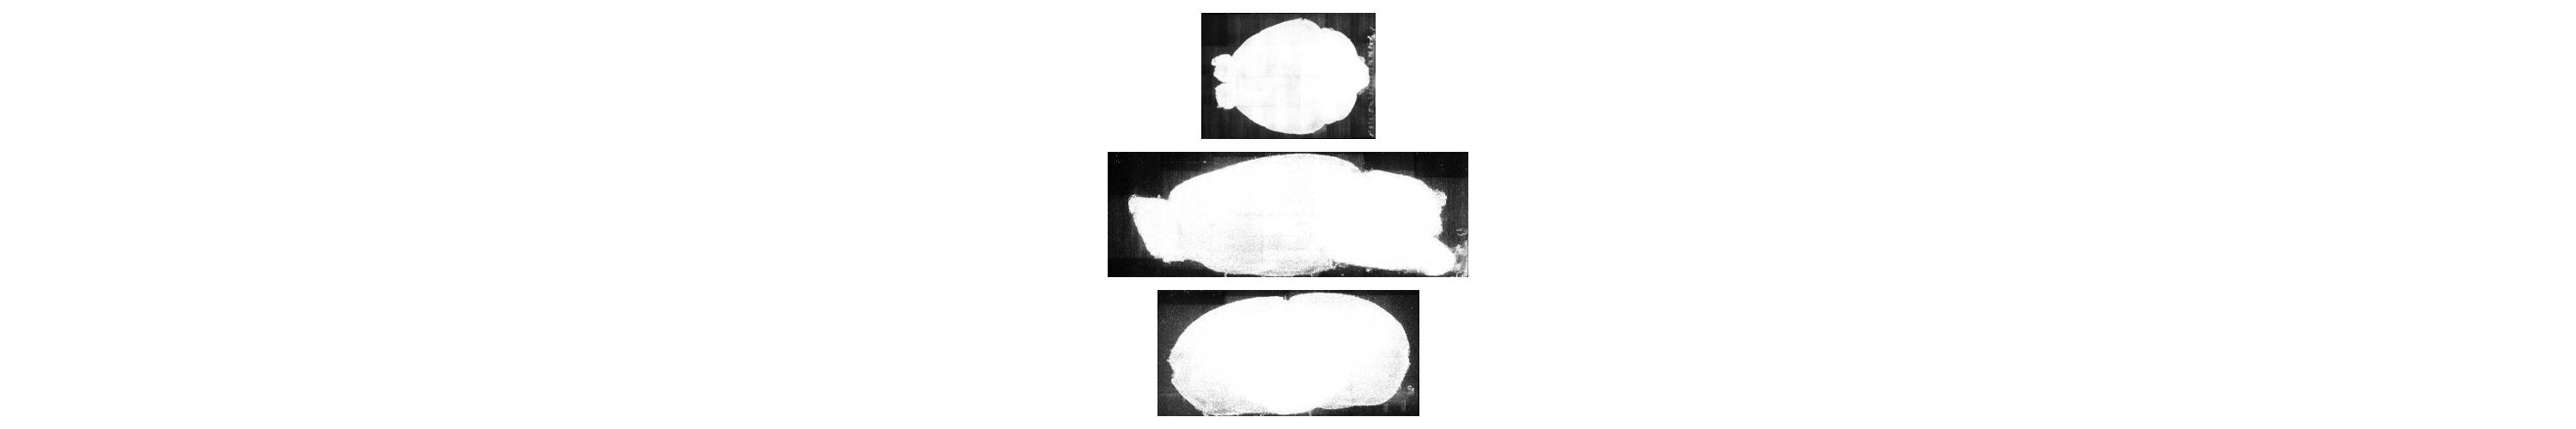
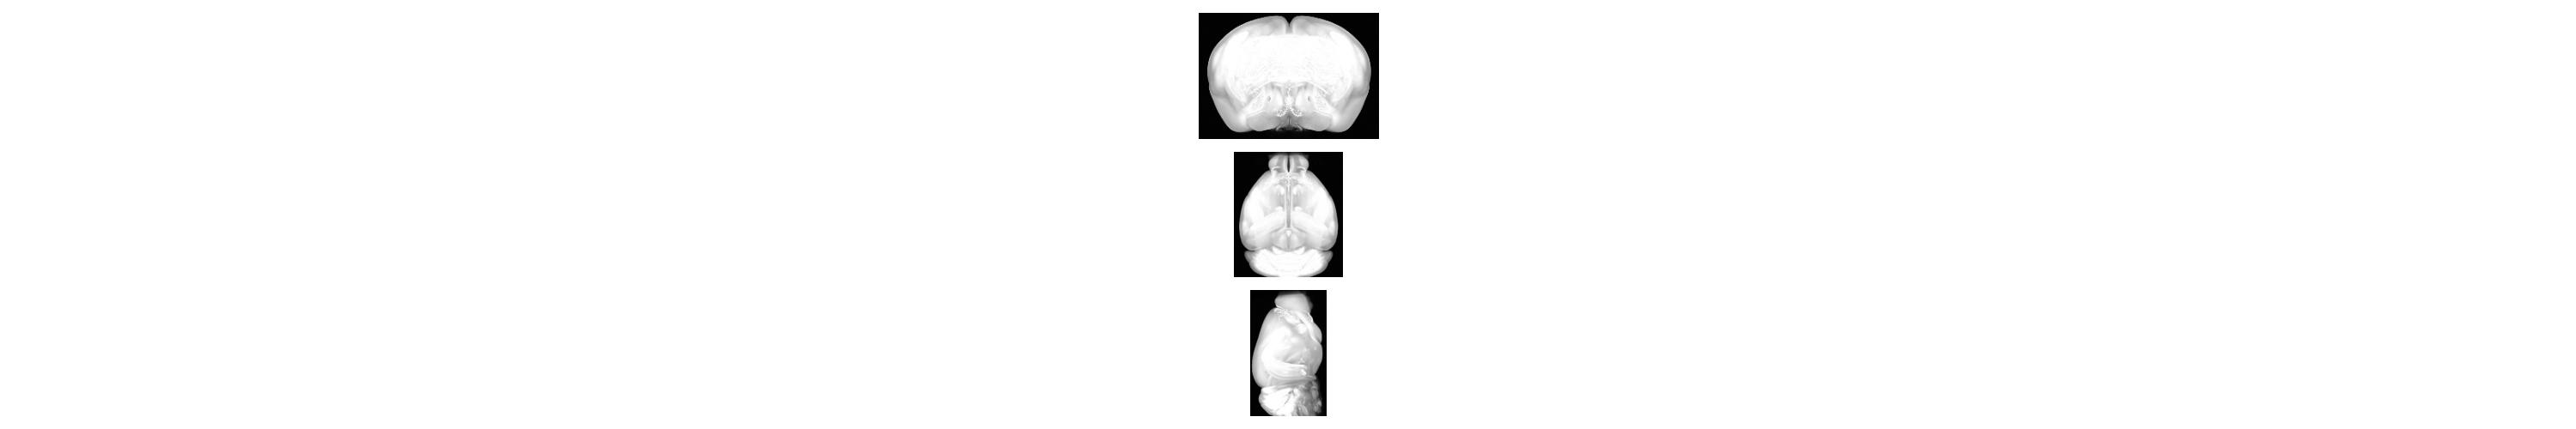
updates to registration

Changed region(s): [[0.403, 0.03, 0.589, 0.99]]

diff --git a/BrainBeam/cust_registration/registration.py b/BrainBeam/cust_registration/registration.py
@@ -23,8 +23,9 @@ from scipy.ndimage import zoom
 import tqdm
 import SimpleITK as sitk
 from BrainBeam.cust_registration.padding import zero_pad_arrays
-from BrainBeam.cust_registration.bayessearch import find_affine_matrix, set_affine_rotation
+from BrainBeam.cust_registration.bayessearch import find_affine_matrix, set_affine_rotation, find_best_axes_sampling
 from BrainBeam.cust_registration.graphics import volume_graphics
+from BrainBeam.cust_registration.preprocess import replace_signal
 from datetime import datetime
 from functools import partial
 import argparse
@@ -315,6 +316,8 @@ class alignment:
         self.TargetImageObject = TargetImageObject
         self.drop_path = drop_path
         self.best_params_oh = None # Default assumption
+        self.best_params_mask_oh = None
+        self.best_params_mask_stretch_oh = None
         self.moving_array_original = self.MovingImageObject.downsampled_volume.astype(np.float64)
         self.target_array = self.TargetImageObject.template.astype(np.float64)
         self.annotation_array = self.TargetImageObject.annotation.astype(np.float64)
@@ -435,19 +438,69 @@ class alignment:
         return now.strftime("%Y_%m_%d_%H_%M_%S")
     
     def __call__(self):
-        # Zero pad both arrays for consistent dimensions
-        self.moving_array_original, self.target_array = zero_pad_arrays(array1=self.moving_array_original, 
-                                                                        array2=self.target_array)
+        # Preprocess image volumes ... eliminate high signal
+        self.moving_array_original = replace_signal(volume=self.moving_array_original) 
+        self.target_array = replace_signal(volume = self.target_array, normalize=True)
 
-        _, self.annotation_array_original = zero_pad_arrays(array1=self.moving_array_original, 
-                                                                        array2=self.annotation_array)
-        
+        # Zero pad both arrays for consistent dimensions
+        self.moving_array_original, self.target_array = zero_pad_arrays(array1=self.moving_array_original, array2=self.target_array)
+
+        _, self.annotation_array_original = zero_pad_arrays(array1=self.moving_array_original, array2=self.annotation_array)
     
-        # Perform a rigid transformation
+        # Binary mask alignment and stretching/squeezing
         self.moving_mask, self.target_mask = self.graphobjoh.plot_surface(volume1 = self.moving_array_original, 
-                                     volume2 = self.target_array,
-                                     pull_binary_mask = True)
-             
+                                     volume2 = self.target_array, pull_binary_mask = True) # Get binary masks 
+        
+        best_params_mask_file = os.path.join(self.drop_path, f"best_params_mask_bayesopt.pkl")
+        best_params_mask_stretch_file = os.path.join(self.drop_path, f"best_params_mask_stretch_bayesopt.pkl")
+        if os.path.exists(best_params_mask_file):
+            """ If real, load in best rigid parameters """
+            print(f"Bayes Opt file previously calculated for mask, loading file ...")
+            with open(best_params_mask_file, "rb") as f:
+                self.best_params_mask_oh = pickle.load(f)
+
+        else:
+            """ If no file exists, perform rigid transform via bayes search """
+            print('Performing Bayesian-based rigid transformation ... ') 
+            self.fixed_mask, self.moving_mask, self.best_params_mask_oh = find_affine_matrix(fixed_image=self.target_mask,
+                                                                                             moving_image=self.moving_mask,
+                                                                                             best_params=self.best_params_mask_oh, 
+                                                                                             drop_dir = self.drop_path,
+                                                                                             ntrials=5000)
+            
+            self.fixed_mask,self.moving_mask,self.best_params_mask_stretch_oh = find_best_axes_sampling(fixed_image=self.fixed_mask,
+                                                                                                        moving_image=self.moving_mask,
+                                                                                                        best_params=self.best_params_mask_stretch_oh, 
+                                                                                                        drop_dir = self.drop_path, 
+                                                                                                        ntrials=5000)
+
+            with open(best_params_mask_file, "wb") as f:
+                pickle.dump(self.best_params_mask_oh, f)
+                print('Saved BayesOpt best parameters rigid mask ...')
+
+            with open(best_params_mask_stretch_file, "wb") as f:
+                pickle.dump(self.best_params_mask_stretch_oh, f)
+                print('Saved BayesOpt best parameters stretch mask ...')
+
+        # Apply alignment to data 
+        assert self.best_params_mask_oh is not None
+        assert self.best_params_mask_stretch_oh is not None
+        
+        best_affine_transform = sitk.AffineTransform(3)
+        best_affine_transform = set_affine_rotation(best_affine_transform, self.best_params_mask_oh['theta_x'], self.best_params_mask_oh['theta_y'], self.best_params_mask_oh['theta_z'])
+        best_affine_transform.SetTranslation([self.best_params_mask_oh['translation_x'], self.best_params_mask_oh['translation_y'], self.best_params_mask_oh['translation_z']])
+        best_affine_transform.Scale(self.best_params_mask_oh['scale'])
+        best_resampler = sitk.ResampleImageFilter()
+        best_resampler.SetSize(sitk.GetImageFromArray(self.target_array).GetSize())
+        best_resampler.SetOutputSpacing(sitk.GetImageFromArray(self.target_array).GetSpacing())
+        best_resampler.SetTransform(best_affine_transform)
+        best_resampler.SetInterpolator(sitk.sitkLinear)
+        best_aligned_image = best_resampler.Execute(sitk.GetImageFromArray(self.moving_array_original))
+        self.moving_image = sitk.GetArrayFromImage(best_aligned_image)
+        self.fixed_image = self.target_array
+        self.moving_image = zoom(self.moving_image, (self.best_params_mask_stretch_oh['scale_x'], self.best_params_mask_stretch_oh['scale_y'], self.best_params_mask_stretch_oh['scale_z'])) 
+
+        # Perform Rigid Alignment on original data 
         best_params_file = os.path.join(self.drop_path, f"best_params_bayesopt.pkl")
         if os.path.exists(best_params_file):
             """ If real, load in best rigid parameters """
@@ -472,25 +525,18 @@ class alignment:
         else:
             """ If no file exists, perform rigid transform via bayes search """
             print('Performing Bayesian-based rigid transformation ... ') 
-            self.fixed_image, self.moving_image, self.best_params_oh = find_affine_matrix(fixed_image=self.target_mask,
-                                                                    moving_image=self.moving_mask,
-                                                                    best_params=self.best_params_oh, drop_dir = self.drop_path)
+            self.fixed_image, self.moving_image, self.best_params_oh = find_affine_matrix(fixed_image=self.fixed_image,
+                                                                    moving_image=self.moving_image,
+                                                                    best_params=self.best_params_oh, 
+                                                                    drop_dir = self.drop_path)
             
             with open(best_params_file, "wb") as f:
                 pickle.dump(self.best_params_oh, f)
                 print('Saved BayesOpt best parameters ...')
 
-        # Graph fixed and moving volumes
-        self.graphobjoh.spin_volume(volume1 = self.moving_image, volume2 = self.target_array, 
-                                   label='postrigid', output=os.path.join(self.drop_path, f'Post_Rigid_3d_{self.time_to_str()}.gif'))
-          
         # Perform non-rigid alignment
         print('Performing Non-Rigid Multiresolution Alignment ... ') 
         self.nonrigid_moving_image = self.multiresolution_align()
-
-        # Graph non-rigid alignment
-        self.graphobjoh.spin_volume(volume1 = self.nonrigid_moving_image, volume2 = self.target_array, 
-                                   label='nonrigid', output=os.path.join(self.drop_path, f'Non_Rigid_Alignment_{self.time_to_str()}.gif'))
 
 def cli_parser():
     """ Takes command line inputs and parses them for downstream """

diff --git a/BrainBeam/cust_registration/BayesSearch.py b/BrainBeam/cust_registration/BayesSearch.py
@@ -38,7 +38,6 @@ from optuna.samplers import CmaEsSampler
 from scipy.ndimage import zoom
 from skimage.filters import threshold_otsu, threshold_li, threshold_yen
 
-
 def print_results_every_n_trials(study, trial, n=10):
     """
     Callback function to print study results every n trials.
@@ -46,8 +45,7 @@ def print_results_every_n_trials(study, trial, n=10):
     if trial.number % n == 0:
         print(f"Trial {trial.number}: Best Value = {study.best_value:.5f}, Best Params = {study.best_params}")
 
-
-def compute_mattes_mutual_information(fixed_image, moving_image):
+def MMI(fixed_image, moving_image):
     registration_method = sitk.ImageRegistrationMethod()
     registration_method.SetMetricAsMattesMutualInformation(numberOfHistogramBins=50)
     identity_transform = sitk.Transform(3, sitk.sitkIdentity)
@@ -116,7 +114,7 @@ def find_affine_matrix(fixed_image,moving_image, drop_dir,ntrials=10000,best_par
             resampler.SetInterpolator(sitk.sitkLinear)  # Use linear interpolation
             transformed_image = resampler.Execute(moving_image)
 
-            metric = compute_mattes_mutual_information(fixed_image, transformed_image)
+            metric = MMI(fixed_image, transformed_image)
             print(f'MMI value is {metric}')
             return metric  # Return the metric value (Optuna tries to minimize this)
 
@@ -199,4 +197,67 @@ def find_affine_matrix(fixed_image,moving_image, drop_dir,ntrials=10000,best_par
     aligned_array = sitk.GetArrayFromImage(best_aligned_image)
     fixed_image = sitk.GetArrayFromImage(fixed_image)
     return fixed_image, aligned_array, best_params
+
+
+def find_best_axes_sampling(fixed_image,moving_image,drop_dir,ntrials=5000,best_params=None):
+    if best_params is None:
+        def objective(trial, fixed_image, moving_image):
+            """ In this study, we are trying to determine which angles """
+            scale_x = trial.suggest_uniform('scale_x', 0.5, 2.0)
+            scale_y = trial.suggest_uniform('scale_y', 0.5, 2.0)
+            scale_z = trial.suggest_uniform('scale_z', 0.5, 2.0)
+
+            # Rescale with zoom
+            rescaled_moving_image = zoom(moving_image, (scale_x, scale_y, scale_z))
+            
+            # Convert numpy to sitk
+            fixed_image = sitk.GetImageFromArray(fixed_image)
+            moving_image = sitk.GetImageFromArray(moving_image)
+
+            metric = MMI(fixed_image, rescaled_moving_image)
+            print(f'MMI value is {metric}')
+            return metric  # Return the metric value (Optuna tries to minimize this)
+
+        def current_param_graph(study, trial, moving_image, fixed_image, droppath, n=1000):
+            if trial.number % n == 0:
+                if trial.number ==0:
+                    return 
+                
+                best_trial = study.best_trial
+                best_params = best_trial.params
+                best_aligned_image = zoom(moving_image, (best_params['scale_x'], best_params['scale_y'], best_params['scale_z']))
+               
+                # Plot the results
+                fig, axs = plt.subplots(3, 2, figsize=(30, 5))
+                for i in range(3):
+                    aligned_av = best_aligned_image.max(axis=i)
+                    fixed_av = fixed_image.max(axis=i)
+
+                    ax = axs[i, 0]
+                    ax.imshow(aligned_av)
+                    ax.axis('off') 
+
+                    ax = axs[i, 1]
+                    ax.imshow(fixed_av)
+                    ax.axis('off')  
+
+                plt.savefig(os.path.join(droppath,f'slices_trial_stretch_{trial.number}.jpg'))
+
+        # Create an Optuna study to optimize the objective function
+        sampler = CmaEsSampler()
+        study = optuna.create_study(sampler=sampler, direction="minimize", pruner=MedianPruner())  # We want to minimize the metric
+        study.optimize(lambda trial: objective(trial, fixed_image, moving_image), n_trials=ntrials, n_jobs=-1,  show_progress_bar=True, callbacks=[lambda s, t: current_param_graph(s, t, moving_image, fixed_image, drop_dir)])  # Run optimization for 100 trials
+
+        # Get the best parameters from the optimization
+        best_trial = study.best_trial
+        print(f"Best trial: {best_trial.number}")
+        print(f"Best value: {best_trial.value}")
+        print(f"Best parameters: {best_trial.params}")
+
+        # Apply the best affine transform to the moving image
+        best_params = best_trial.params
+  
+    aligned_array = zoom(moving_image, (best_params['scale_x'], best_params['scale_y'], best_params['scale_z']))  
+    return fixed_image, aligned_array, best_params
+
 

diff --git a/BrainBeam/cust_registration/graphics.py b/BrainBeam/cust_registration/graphics.py
@@ -17,13 +17,44 @@ from scipy.ndimage import binary_fill_holes
 import trimesh
 import ipdb
 
-def slice_views(array,output_filename):
+def adjust_image(image, contrast=1.0, brightness=0):
+    image = image * contrast
+    image = image + brightness
+    image = np.clip(image, 0, 255)
+    return image
+
+def slice_views(array,output_filename, contrast = None, brightness = None,image_type='max'):
+    # contrast and brightness must both be numbers
+    if contrast is not None and brightness is not None:
+        assert isinstance(contrast, (int, float)), "variable1 must be an int or float"
+        assert isinstance(brightness, (int, float)), "variable2 must be an int or float"
+        adjust = True
+    else:
+        adjust = False
+
     fig, axs = plt.subplots(3, 1, figsize=(30, 5))
     for i in range(3):
-        maxes = array.max(axis=i)
+        if image_type == 'max':
+            maxes = array.max(axis=i)
+        elif image_type =='mean':
+            maxes = array.mean(axis=i)
+        elif image_type =='median':
+            maxes = np.median(array,axis=i)
+        elif image_type == 'std':
+            maxes = np.std(array,axis=i)
+        else:
+            raise("image type must be either 'max', 'mean', 'median' or 'std'")
+
+        # Adjust brightness and contrast
+        if adjust:
+            maxes = adjust_image(maxes, contrast = contrast, brightness = brightness)
+
+        print(maxes.max())
+        print(maxes.min())
         ax = axs[i]
         ax.imshow(maxes,aspect='equal', cmap='gray', vmin = np.min(maxes), vmax = np.max(maxes))
         ax.axis('off') 
+
     plt.tight_layout()
     plt.savefig(output_filename)
 

diff --git a/BrainBeam/cust_registration/preprocess.py b/BrainBeam/cust_registration/preprocess.py
@@ -11,19 +11,26 @@ import numpy as np
 from scipy.ndimage import gaussian_filter
 from BrainBeam.cust_registration.graphics import slice_views
 from BrainBeam.cust_registration.padding import zero_pad_arrays
+from allensdk.core.reference_space_cache import ReferenceSpaceCache
+from pathlib import Path
 import ipdb
 
-def replace_signal(volume,threshold=95, cube_size=9):
+def replace_signal(volume,threshold=99, cube_size=9,normalize=False):
     """
     
     """
+    # normalize data if set
+    if normalize:
+        volume = ((volume-volume.min())/(volume.max()-volume.min()))*255
+
     # plot original volume
-    slice_views(array=(volume/2),output_filename='presignalextract.jpg')
+    slice_views(array=volume,output_filename='presignalextract.jpg', image_type='max')
 
     # Threshold the data
     non_zero_array = volume[volume != 0]
     threshold_value = np.percentile(non_zero_array, threshold)
     signal_points = np.where(volume>=threshold_value)
+    volume = volume.astype(np.float16)
 
     # Replace these signal points with nan
     volume[signal_points] = np.nan
@@ -61,7 +68,11 @@ def replace_signal(volume,threshold=95, cube_size=9):
         
     # remove zero padding
     volume = volume_padded[cube_size:-cube_size,cube_size:-cube_size,cube_size:-cube_size]
-    slice_views(array=(volume/2),output_filename='postsignalextract.jpg')
+
+    if normalize:
+        volume = ((volume-volume.min())/(volume.max()-volume.min()))*255
+
+    slice_views(array=volume,output_filename='postsignalextract.jpg', image_type='max')
     return volume 
 
 def blur(volume, sigma=2):
@@ -74,6 +85,12 @@ def preprocess(volume):
     return volume
 
 if __name__=='__main__':
-    file=r'C:\Users\listo\example_registration_data\sub1_output\current_run_2025_01_09_22_33_11\downsampled_volume.npy'
-    volume_test = np.load(file)
-    desig_volume = replace_signal(volume=volume_test)
+    atlas_path = r'c:\Users\listo\example_registration_data\atlas'
+    reference_space_key = 'average_template/'
+    rspc = ReferenceSpaceCache(50, reference_space_key, manifest=Path(atlas_path) / 'manifest.json')
+    template, template_meta = rspc.get_template_volume()
+
+    # file=r'C:\Users\listo\example_registration_data\sub1_output\current_run_2025_01_09_22_33_11\downsampled_volume.npy'
+    # volume_test = np.load(file)
+    # desig_volume = replace_signal(volume=volume_test)
+    desig_template = replace_signal(volume = template, normalize=True)